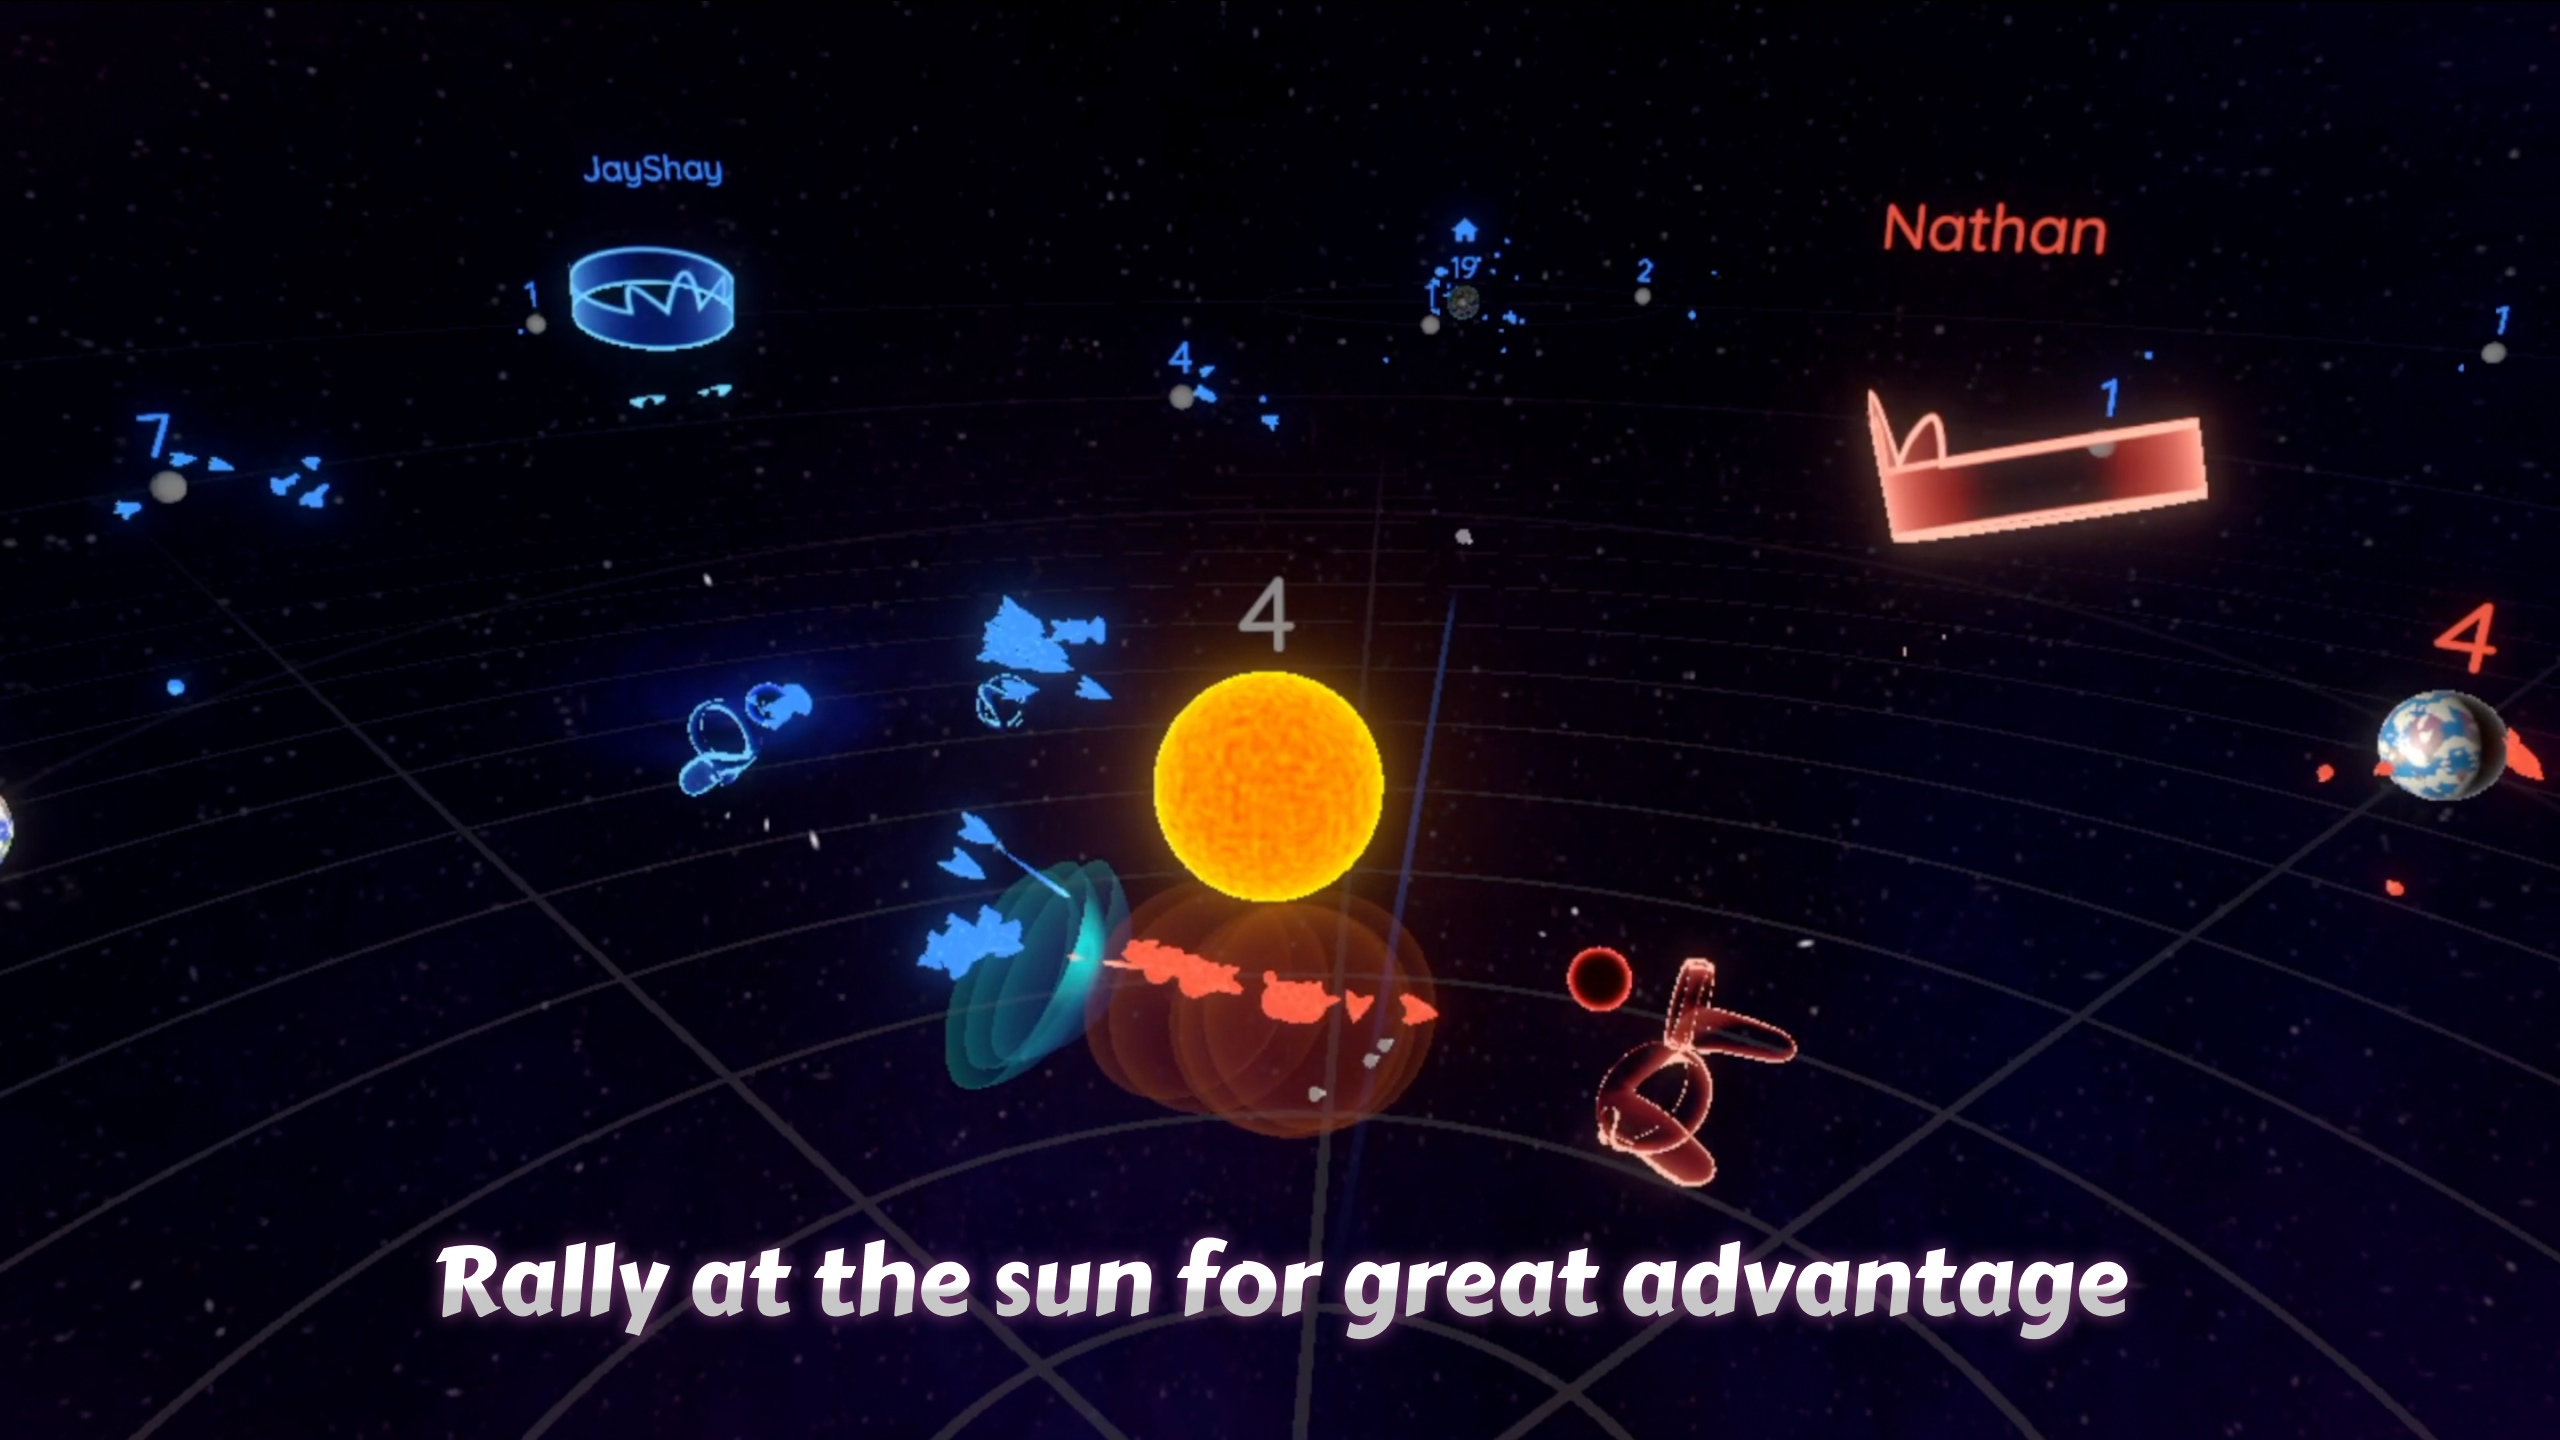
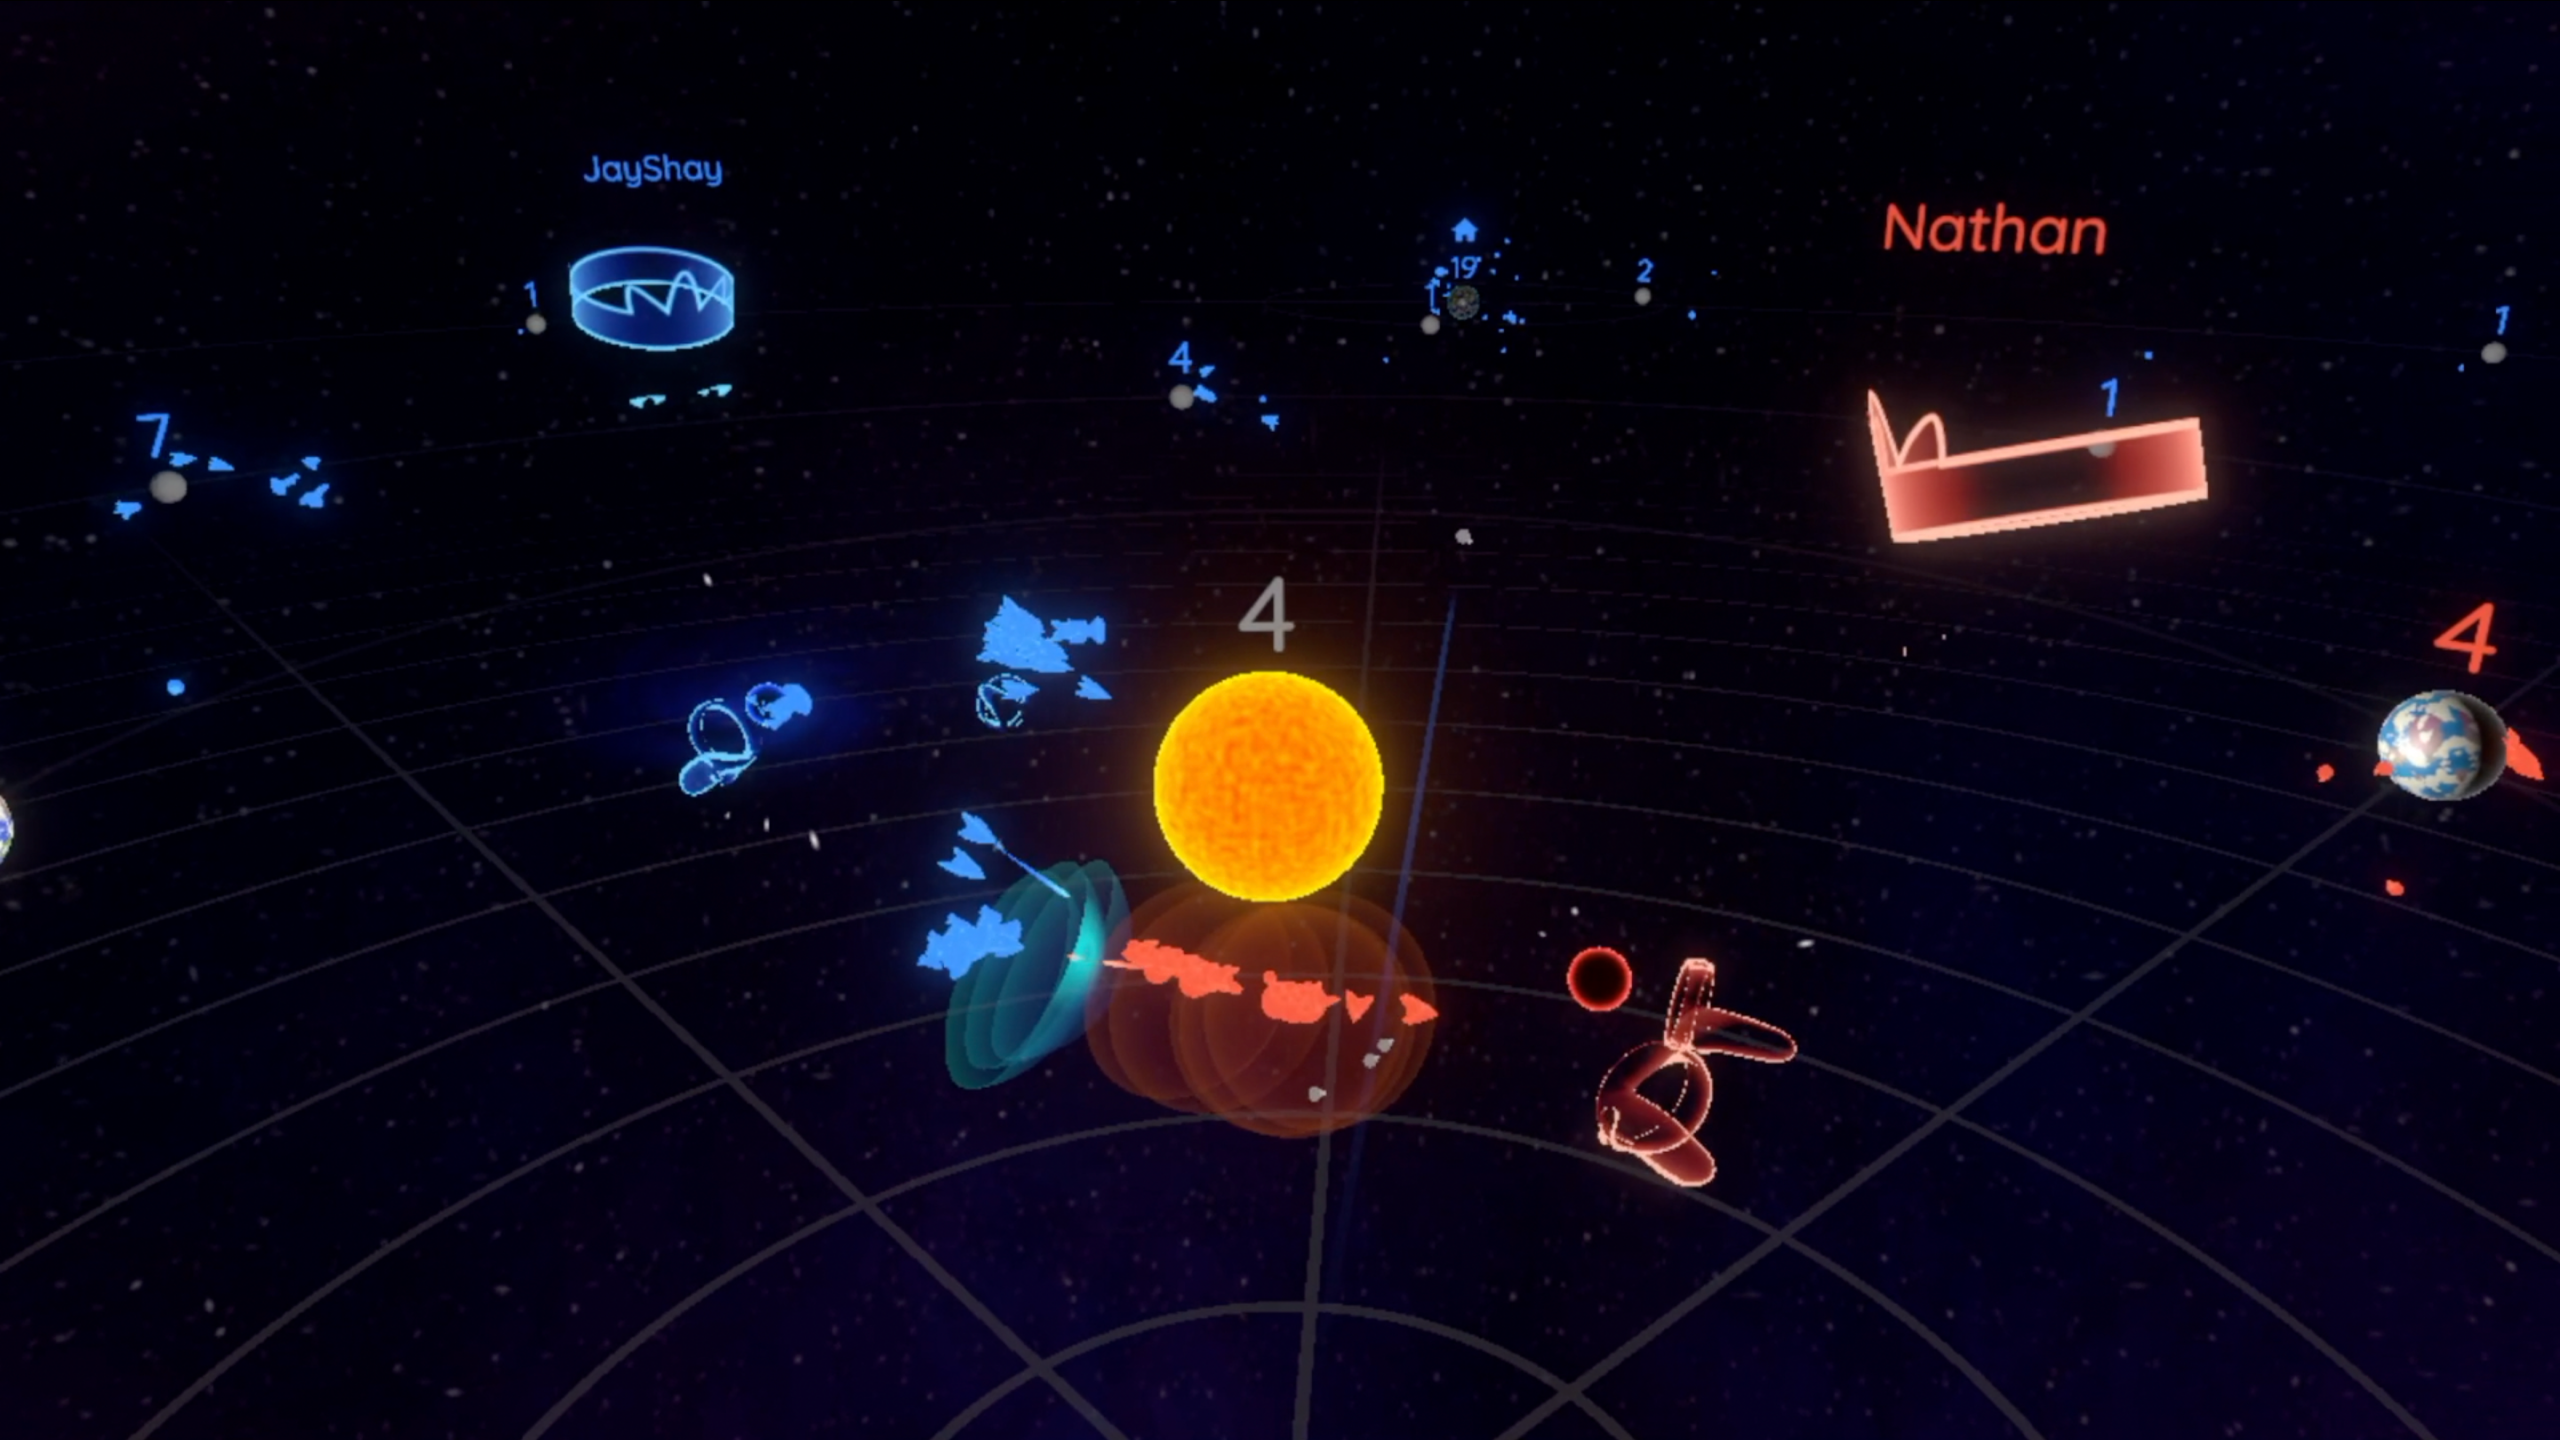
Minor changes to GoG gallery

Changed region(s): [[0.1562, 0.8438, 0.8438, 0.9375]]

diff --git a/_projects/gods_of_gravity.md b/_projects/gods_of_gravity.md
@@ -9,9 +9,13 @@ hasDemo: "false"
 youtubeID: "eGUfLopBv5o"
 images:
   - filename: "gods_of_gravity_1.png"
+    caption: "Use gravity to attract and throw ships..."
   - filename: "gods_of_gravity_2.png"
+    caption: "...or create wormholes to travel great distances"
   - filename: "gods_of_gravity_4.png"
+    caption: "Rally at the sun for great advantage"
   - filename: "gods_of_gravity_5.png"
+    caption: "Overpower your enemy at their home base"
 ---
 Gods of Gravity is a multiplayer arcade-style RTS game where you compete against friends in an epic showdown of celestial gods. Scoop up just the right ships (like Shield and Rocket) and fling them to capture a nearby planet, or open wormholes to teleport them across the solar system. Hold planets and moons to boost your production. And if you dare, capture the sun for the ultimate buff. Then send a massive fleet to conquer friends’ home planets. Last god standing wins.
 
